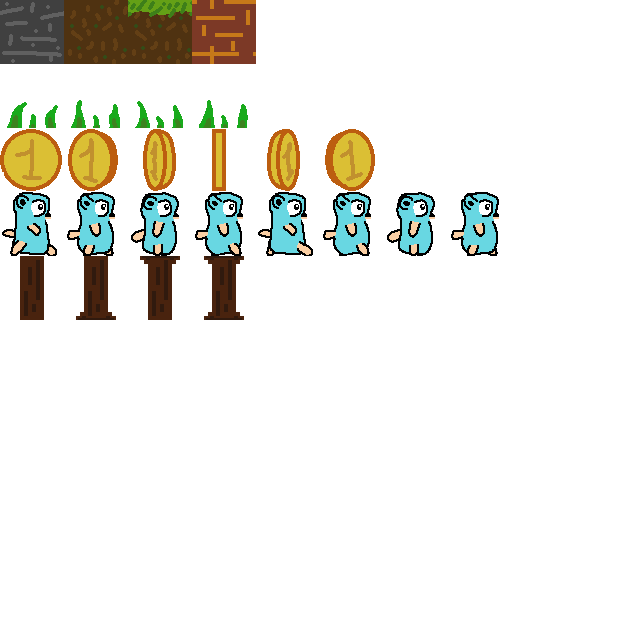
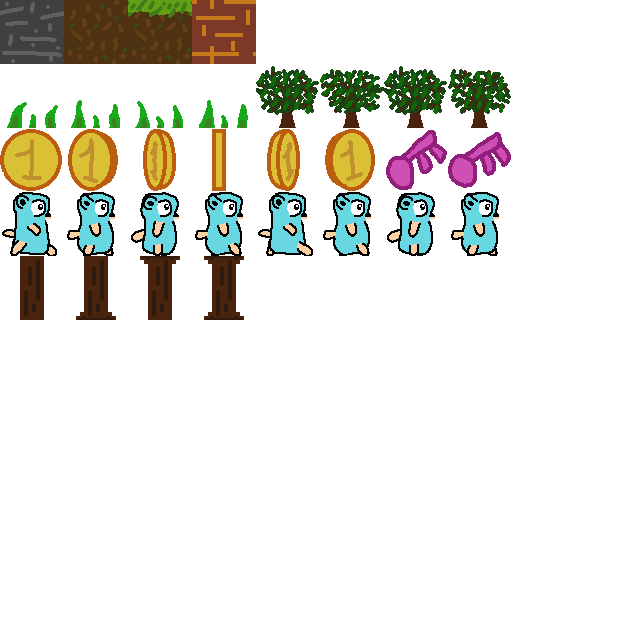
Tree, key, stable map

Changed region(s): [[0.375, 0.0938, 0.8125, 0.3125]]

diff --git a/game/block.go b/game/block.go
@@ -10,20 +10,28 @@ type Block struct {
 
 // Loads all blocks
 func (game *Game) loadResources() {
+	// Solid blocks
 	game.loadRessource("stone", 's', true, false, []ImagePosition{{0, 1, 0, 1}})
 	game.loadRessource("dirt", 'd', true, false, []ImagePosition{{1, 2, 0, 1}})
 	game.loadRessource("grass", 'g', true, false, []ImagePosition{{2, 3, 0, 1}})
 	game.loadRessource("brick", 'b', true, false, []ImagePosition{{3, 4, 0, 1}})
 
+	// Non solid blocks
 	game.loadRessource("pillar_up_down", '0', false, false, []ImagePosition{{0, 1, 4, 5}})
 	game.loadRessource("pillar_down", '1', false, false, []ImagePosition{{1, 2, 4, 5}})
 	game.loadRessource("pillar_up", '2', false, false, []ImagePosition{{2, 3, 4, 5}})
 	game.loadRessource("pillar_central", '3', false, false, []ImagePosition{{3, 4, 4, 5}})
-
+	game.loadRessource("tree", 't', false, false, []ImagePosition{{4, 5, 1, 2}, {5, 6, 1, 2},
+		{6, 7, 1, 2}, {7, 8, 1, 2}})
 	game.loadRessource("herb", 'h', false, false, []ImagePosition{{0, 1, 1, 2}, {1, 2, 1, 2},
 		{2, 3, 1, 2}, {3, 4, 1, 2}})
+
+	// Collectable items
 	game.loadRessource("coin", 'c', false, true, []ImagePosition{{0, 1, 2, 3}, {1, 2, 2, 3},
 		{2, 3, 2, 3}, {3, 4, 2, 3}, {4, 5, 2, 3}, {5, 6, 2, 3}})
+	game.loadRessource("key", 'k', false, true, []ImagePosition{{6, 7, 2, 3}, {7, 8, 2, 3}})
+
+	// Player
 	game.loadRessource("player", 'p', false, false, []ImagePosition{{0, 1, 3, 4}, {1, 2, 3, 4},
 		{2, 3, 3, 4}, {3, 4, 3, 4}, {4, 5, 3, 4}, {5, 6, 3, 4}, {6, 7, 3, 4}, {7, 8, 3, 4}})
 }

diff --git a/game/player.go b/game/player.go
@@ -17,7 +17,7 @@ type Player struct {
 // Initialize a new player with default settings
 func initPlayer(xPlayerFixed int) Player {
 	return Player{
-		Position{float64(xPlayerFixed) + 230, 1.5},
+		Position{float64(xPlayerFixed) + 0.0, 1.5},
 		[4][2]float64{
 			{-0.3, -0.4},
 			{0.3, -0.4},
@@ -54,4 +54,11 @@ func (p *Player) Buy(cost int) (canBuy bool) {
 		canBuy = true
 	}
 	return
+}
+
+func (p *Player) AddInventory(short rune) {
+	switch short {
+	case 'k':
+		p.Inventory = append(p.Inventory, Object{"Key", "Into the unknown."})
+	}
 }

diff --git a/game/game.go b/game/game.go
@@ -223,8 +223,11 @@ func (g *Game) Collect() {
 		b := g.AllBlocks[g.GameMap[x][y]]
 		if b.Collectable {
 			g.GameMap[x][y] = ' '
-			if b.Short == 'c' {
+			switch b.Short {
+			case 'c':
 				g.Player.CollectGold(1)
+			case 'k':
+				g.Player.AddInventory('k')
 			}
 		}
 	}

diff --git a/ToDo.md b/ToDo.md
@@ -1,0 +1,7 @@
+# Work to do
+
+- Door that can be opened with a key
+- Chest with stuff in it
+- Enemies walking around
+- Weapon to carry and attack enemies
+- Secret stuff
